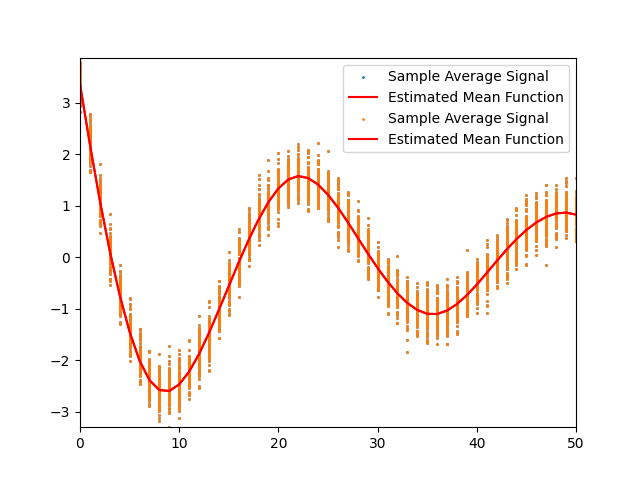
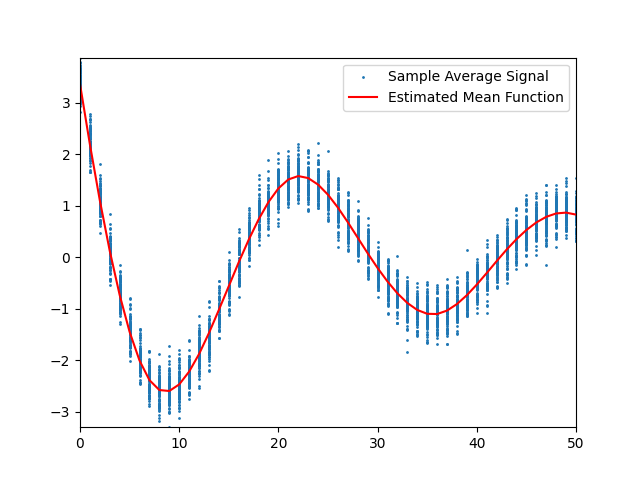
Fixed some bugs with the problem 3 solution.

diff --git a/Problem3/PlotMeanFunction.py b/Problem3/PlotMeanFunction.py
@@ -32,4 +32,6 @@ def plot_mean_function(
     os.makedirs(subfolder)
 
   plt.savefig(fr'{subfolder}/{filename}')
+  plt.clf()
+
 
